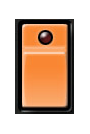
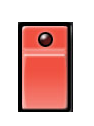
fix more positions

diff --git a/src/pages/sequencer.css b/src/pages/sequencer.css
@@ -40,11 +40,17 @@
 
 .keypad
 {
-    position: relative;
-    top: -5px;
-    height: 80px;
+    position: absolute;
+    top: -0.9px;
+    margin-left: 2px;
+    height: 74px;
  
 }
+.keypad:active
+{
+        height: 73px;
+ }
+
 
 .synth
 {
